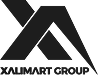
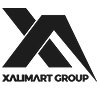
Last Fixes: Both Templates - Part 10

Changed region(s): [[0.0, 0.0, 1.0, 0.987]]

diff --git a/lib/templates/xalimart-white-v2.ts b/lib/templates/xalimart-white-v2.ts
@@ -184,9 +184,9 @@ export function buildXalimartWhiteV2(data: SignatureData, images: SignatureImage
               <a href="https://xalimartgroup.sn" target="_blank"
                 style="text-decoration:none;display:block;">
                 <img class="xsig-logo" src="${images.xalimartBlack}" alt="Xalimart Group"
-                  width="118" height="97"
-                  style="display:block;margin:0 auto;width:118px;height:97px;
-                        max-width:118px;max-height:97px;outline:none;border:none;">
+                  width="120" height="110"
+                  style="display:block;margin:0 auto;width:120px;height:110px;
+                        max-width:120px;max-height:110px;outline:none;border:none;">
               </a>
               <img class="xsig-tag" src="${images.taglineWh}" alt="tagline"
                 style="display:block;margin:0 auto;width:110px;max-width:110px;height:auto;border:none;outline:none;">

diff --git a/lib/templates/shared.ts b/lib/templates/shared.ts
@@ -1,7 +1,7 @@
 import type { SignatureImages } from '@/types/signature'
 
 // ── Static content ─────────────────────────────────────────────────────────────
-export const STATIC_ADDRESS = 'Flanc des Mamelles Residence Sadiya Tower,<br/> Dakar - Senegal'
+export const STATIC_ADDRESS = 'Flanc des Mamelles, Residence Sadiya Tower<br/> Dakar - Senegal'
 export const STATIC_PHONE   = '+221 77 624 07 07'
 
 // ── Text clamp ─────────────────────────────────────────────────────────────────
